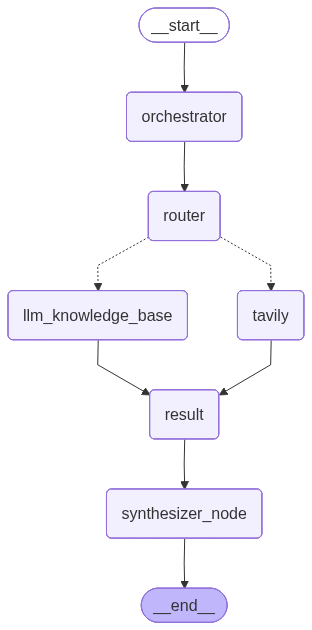
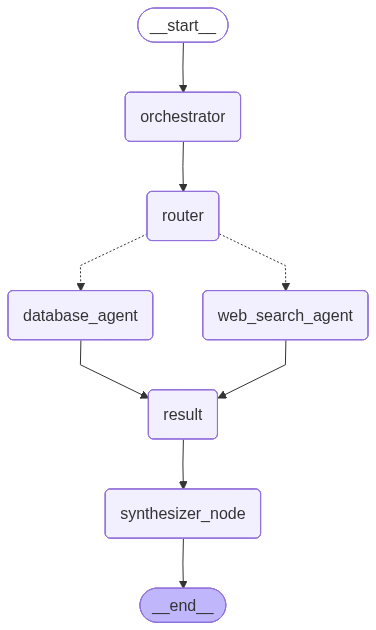
Change image and client.py

diff --git a/Orchestrator-Worker/langgraph_orchestrator_worker_client.py b/Orchestrator-Worker/langgraph_orchestrator_worker_client.py
@@ -289,15 +289,15 @@ async def main():
 			graph = StateGraph(OrchestratorWorkerState)
 			graph.add_node("orchestrator", orchestrator_node)
 			graph.add_node("router", router_node)
-			graph.add_node("tavily", tavily_agent)
-			graph.add_node("llm_knowledge_base", knowledge_base_agent)
+			graph.add_node("web_search_agent", tavily_agent)
+			graph.add_node("database_agent", knowledge_base_agent)
 			graph.add_node("result", result_node)
 			graph.add_node("synthesizer_node", synthesizer_node)
 			graph.add_edge(START, "orchestrator")
 			graph.add_edge("orchestrator", "router")
-			graph.add_conditional_edges("router", router, [AgentType.TAVILY.value, AgentType.KNOWLEDGE_BASE.value])
-			graph.add_edge("tavily", "result")
-			graph.add_edge("llm_knowledge_base", "result")
+			graph.add_conditional_edges("router", router, ["web_search_agent", "database_agent"])
+			graph.add_edge("web_search_agent", "result")
+			graph.add_edge("database_agent", "result")
 			graph.add_edge("result", "synthesizer_node")
 			graph.add_edge("synthesizer_node", END)
 
